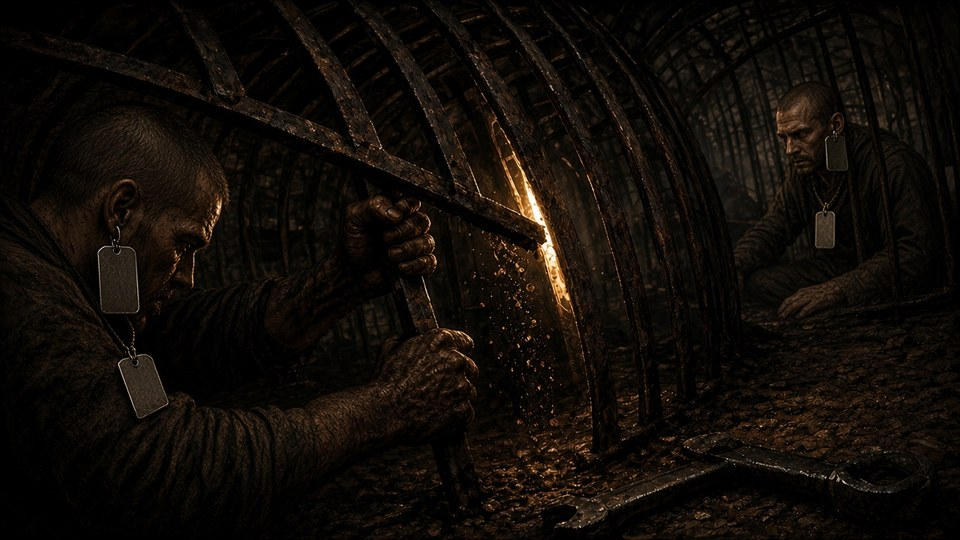
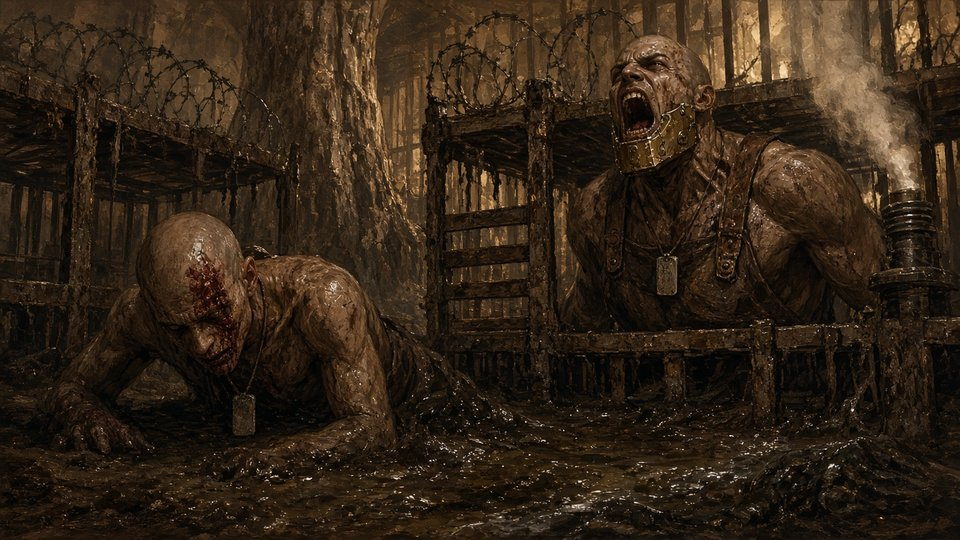
v177: Prisoner opening names Oil-Tooth again; new holding-cells art (one tag each, brass jaw) (#188)

diff --git a/src/game/content/openings.ts b/src/game/content/openings.ts
@@ -10,13 +10,13 @@ export const openingScenes: Scene[] = [
     title: 'Ironwood Break',
     body: `You wake face-down in the holding pens muck. The back of your head is wet and you do not know the name of the wet. Cold, resin-slick, already in your mouth. Ironwood Camp-04 is loud: razor-wire, screaming steam-vents, harvesters on the petrified groves. You are a Blood-Cut. Captive labor. Amnesiac. Your kit matches no faction.
 
-Jaxson Vance is hollering from the next bunk — burly, grease-stained, a fused brass jaw. He sees the blood before he sees you. "Back of the head. Don't lie down again."
+Jaxson "Oil-Tooth" Vance is hollering from the next bunk — burly, grease-stained, a fused brass jaw. He sees the blood before he sees you. "Back of the head. Don't lie down again."
 
 Overseer Valerius is the shadow in the tower. Getting out from under him is the first job.`,
     choices: [
       {
         id: 'pens',
-        label: 'Sit up. Acknowledge Jaxson.',
+        label: 'Sit up. Acknowledge Oil-Tooth.',
         sub: 'Gear: Cartel Scrip only. The jaw in the next bunk will not shut up.',
         effects: {
           enterHub: 'camp04',

diff --git a/scripts/v167.ts b/scripts/v167.ts
@@ -4,8 +4,8 @@ import { getScene } from '../src/game/content/index.ts'
 import { MILLER_TURRETS } from '../src/game/content/intoTheMaw.ts'
 let fails = 0
 const ok = (c: unknown, m: string) => { if (!c) { fails++; console.log('FAIL', m) } }
-ok(readFileSync('public/sw.js', 'utf8').includes("CACHE = 'amber-shroud-v176'"), 'SW cache v167')
-ok(readFileSync('src/version.ts', 'utf8').includes("'v176'"), 'Build label v168')
+ok(readFileSync('public/sw.js', 'utf8').includes("CACHE = 'amber-shroud-v177'"), 'SW cache v167')
+ok(readFileSync('src/version.ts', 'utf8').includes("'v177'"), 'Build label v168')
 const body = String(getScene('ch2:p-jaws').body)
 ok(body.includes('The heavy horn atop the barge pops with static, followed by a long, low whistle that echoes off the canyon walls.'), 'horn narration')
 ok(body.includes(`"Greg! Tell that runner down in the dirt to stop staring up at my brass. The price is fifteen scraps or two vials of refined sap—no credit, no speeches. If they haven't dropped the weight into the bucket by the count of three... paint the sand with 'em and haul their skiff to the scrap heap."`), 'horn line word for word')

diff --git a/scripts/v175.ts b/scripts/v175.ts
@@ -6,8 +6,8 @@ import { isHungerCommand } from '../src/game/hunger'
 import type { GameState } from '../src/game/types'
 let fails = 0
 const ok = (c: unknown, m: string) => { if (!c) { fails++; console.log('FAIL', m) } }
-ok(readFileSync('public/sw.js', 'utf8').includes("CACHE = 'amber-shroud-v176'"), 'SW cache v175')
-ok(readFileSync('src/version.ts', 'utf8').includes("'v176'"), 'Build label v175')
+ok(readFileSync('public/sw.js', 'utf8').includes("CACHE = 'amber-shroud-v177'"), 'SW cache v175')
+ok(readFileSync('src/version.ts', 'utf8').includes("'v177'"), 'Build label v175')
 ok(!isHungerCommand("take the pilgrim's scar", 'vessel', true) && isHungerCommand('take the gullet', 'vessel', true) && isHungerCommand("take the pilgrim's scar", 'vessel'), 'Scar is not the Chapter Two road')
 ok(readFileSync('src/game/content/redMaw.ts', 'utf8').includes("all: [{ flagUnset: 'ribOpen' }"), 'rib +3 once')
 const base = { hubId: 'threshold', sceneId: 'thresh:paddock', flags: {}, items: {}, sap: 3 } as unknown as GameState

diff --git a/scripts/v174.ts b/scripts/v174.ts
@@ -3,8 +3,8 @@ import { readFileSync } from 'node:fs'
 let fails = 0
 const ok = (c: unknown, m: string) => { if (!c) { fails++; console.log('FAIL', m) } }
 const t = readFileSync('src/game/trade.ts', 'utf8')
-ok(readFileSync('public/sw.js', 'utf8').includes("CACHE = 'amber-shroud-v176'"), 'SW cache v174')
-ok(readFileSync('src/version.ts', 'utf8').includes("'v176'"), 'Build label v174')
+ok(readFileSync('public/sw.js', 'utf8').includes("CACHE = 'amber-shroud-v177'"), 'SW cache v174')
+ok(readFileSync('src/version.ts', 'utf8').includes("'v177'"), 'Build label v174')
 ok(t.includes("sub: 'Restores 3 Sap. Limit 2 per visit.'") && t.includes("perStop: { flag: 'kaelenDropsHere', n: 2 }"), 'Kaelen Drop line matches 2-per-visit')
 ok(readFileSync('src/game/engine.ts', 'utf8').match(/sap: 3,\n\s+remove: \{ vial_drop: 1 \}/), 'Drop restores 3 Sap')
 ok(readFileSync('src/game/engine.ts', 'utf8').match(/remove: \{ salve: 1 \},\n\s+health: 3/), 'Salve restores 3 Health')

diff --git a/scripts/v176.ts b/scripts/v176.ts
@@ -3,8 +3,8 @@ import { readFileSync } from 'node:fs'
 let fails = 0
 const ok = (c: unknown, m: string) => { if (!c) { fails++; console.log('FAIL', m) } }
 const e = readFileSync('src/game/engine.ts', 'utf8')
-ok(readFileSync('public/sw.js', 'utf8').includes("CACHE = 'amber-shroud-v176'"), 'SW cache v176')
-ok(readFileSync('src/version.ts', 'utf8').includes("'v176'"), 'Build label v176')
+ok(readFileSync('public/sw.js', 'utf8').includes("CACHE = 'amber-shroud-v177'"), 'SW cache v176')
+ok(readFileSync('src/version.ts', 'utf8').includes("'v177'"), 'Build label v176')
 ok(e.includes('if (handsLeft(next) > 0) next.hands = handsLeft(next) - 1') && e.includes("handsLeft(next) <= 0) {"), 'run ends only on a fall at 0 hands')
 ok(readFileSync('src/components/PlayScreen.tsx', 'utf8').includes('the next fall ends the run'), '0 hands reads as last chance')
 if (fails) { console.log(`v176: ${fails} fail`); process.exit(1) } else console.log('v176 ok')

diff --git a/scripts/v168.ts b/scripts/v168.ts
@@ -5,8 +5,8 @@ import { itemDesc, PLATE_RECIPE_NAMES, PLATE_RECIPE } from '../src/game/kit.ts'
 import { CH2_STARTS } from '../src/game/content/intoTheMaw.ts'
 let fails = 0
 const ok = (c: unknown, m: string) => { if (!c) { fails++; console.log('FAIL', m) } }
-ok(readFileSync('public/sw.js', 'utf8').includes("CACHE = 'amber-shroud-v176'"), 'SW cache v168')
-ok(readFileSync('src/version.ts', 'utf8').includes("'v176'"), 'Build label v168')
+ok(readFileSync('public/sw.js', 'utf8').includes("CACHE = 'amber-shroud-v177'"), 'SW cache v168')
+ok(readFileSync('src/version.ts', 'utf8').includes("'v177'"), 'Build label v168')
 for (const id of Object.values(CH2_STARTS)) ok(getScene(id), `start ${id}`)
 for (const id of ['ch2:cache', 'ch2:trapped', 'ch2:heart', 'ch2:end']) ok(getScene(id), `shared ${id}`)
 ok(!ALL_SCENES.some((s) => s.id === 'ch2:legacy'), 'legacy scene gone')

diff --git a/scripts/v177.ts b/scripts/v177.ts
@@ -1,0 +1,11 @@
+/** v177: Prisoner opening names Oil-Tooth again; new holding-cells art. npx tsx scripts/v177.ts */
+import { readFileSync, statSync } from 'node:fs'
+let fails = 0
+const ok = (c: unknown, m: string) => { if (!c) { fails++; console.log('FAIL', m) } }
+const o = readFileSync('src/game/content/openings.ts', 'utf8')
+ok(readFileSync('public/sw.js', 'utf8').includes("CACHE = 'amber-shroud-v177'"), 'SW cache v177')
+ok(readFileSync('src/version.ts', 'utf8').includes("'v177'"), 'Build label v177')
+ok(o.includes('Jaxson "Oil-Tooth" Vance is hollering from the next bunk'), 'opening names Oil-Tooth')
+ok(o.includes("label: 'Sit up. Acknowledge Oil-Tooth.'"), 'button names Oil-Tooth')
+ok(statSync('public/covers/holding-cells.jpg').size > 20000, 'art present')
+if (fails) { console.log(`v177: ${fails} fail`); process.exit(1) } else console.log('v177 ok')

diff --git a/scripts/v169.ts b/scripts/v169.ts
@@ -4,8 +4,8 @@ import { getScene } from '../src/game/content/index.ts'
 let fails = 0
 const ok = (c: unknown, m: string) => { if (!c) { fails++; console.log('FAIL', m) } }
 const J = (x: unknown) => JSON.stringify(x)
-ok(readFileSync('public/sw.js', 'utf8').includes("CACHE = 'amber-shroud-v176'"), 'SW cache v169')
-ok(readFileSync('src/version.ts', 'utf8').includes("'v176'"), 'Build label v169')
+ok(readFileSync('public/sw.js', 'utf8').includes("CACHE = 'amber-shroud-v177'"), 'SW cache v169')
+ok(readFileSync('src/version.ts', 'utf8').includes("'v177'"), 'Build label v169')
 ok(existsSync('public/covers/stairs.jpg') && existsSync('public/covers/threshold.jpg'), 'stairs art, threshold kept')
 ok(readFileSync('src/game/art.ts', 'utf8').includes("'stairs'"), 'stairs cover key')
 ok(J(getScene('ch2:gate').choices).includes('ch2:approach'), 'gate -> approach')

diff --git a/scripts/v172.ts b/scripts/v172.ts
@@ -5,8 +5,8 @@ import { fightStartFlags, pickEncounterKind, resolveEncounter, encounterSpec, LE
 import { isChapterTwoCode } from '../src/game/ch2.ts'
 let fails = 0
 const ok = (c: unknown, m: string) => { if (!c) { fails++; console.log('FAIL', m) } }
-ok(readFileSync('public/sw.js', 'utf8').includes("CACHE = 'amber-shroud-v176'"), 'SW cache v172')
-ok(readFileSync('src/version.ts', 'utf8').includes("'v176'"), 'Build label v172')
+ok(readFileSync('public/sw.js', 'utf8').includes("CACHE = 'amber-shroud-v177'"), 'SW cache v172')
+ok(readFileSync('src/version.ts', 'utf8').includes("'v177'"), 'Build label v172')
 const sw = readFileSync('public/sw.js', 'utf8')
 ok(sw.includes('covers/vat-leech.jpg') && sw.includes('covers/hymn-moth.jpg'), 'covers precached')
 const kinds = (sceneId: string, hubId: string | null, door: 'prisoner' | 'vessel' = 'prisoner') => {

diff --git a/scripts/smoke.ts b/scripts/smoke.ts
@@ -2737,7 +2737,7 @@ assert(ids(s).includes('sybella-hold') && ids(s).includes('sybella-defy') && ids
 }
 
 const sw = readFileSync(new URL('../public/sw.js', import.meta.url), 'utf8')
-assert(sw.includes("CACHE = 'amber-shroud-v176'") && sw.includes('covers/carapace.jpg'), 'SW bumped so new portraits reach Pages')
+assert(sw.includes("CACHE = 'amber-shroud-v177'") && sw.includes('covers/carapace.jpg'), 'SW bumped so new portraits reach Pages')
 assert(sw.includes('covers/bonewright.jpg') && sw.includes('covers/kaelen.jpg'), 'SW precaches NPC covers')
 assert(!sw.includes('covers/camp04.jpg') && sw.includes('covers/yard.jpg') && sw.includes('covers/sybella.jpg'), 'SW precaches door and antagonist covers')
 assert(sw.includes('favicon.png') && !sw.includes('favicon.svg'), 'SW precaches the cover favicon, not the Drop SVG')

diff --git a/scripts/v170.ts b/scripts/v170.ts
@@ -5,8 +5,8 @@ import { playCoverKey, playCoverFile, coverBand } from '../src/game/art.ts'
 import { newGame } from '../src/game/engine.ts'
 let fails = 0
 const ok = (c: unknown, m: string) => { if (!c) { fails++; console.log('FAIL', m) } }
-ok(readFileSync('public/sw.js', 'utf8').includes("CACHE = 'amber-shroud-v176'"), 'SW cache v170')
-ok(readFileSync('src/version.ts', 'utf8').includes("'v176'"), 'Build label v170')
+ok(readFileSync('public/sw.js', 'utf8').includes("CACHE = 'amber-shroud-v177'"), 'SW cache v170')
+ok(readFileSync('src/version.ts', 'utf8').includes("'v177'"), 'Build label v170')
 const seen = new Set<string>()
 for (const n of ['p-supply', 'p-drillrun', 'survivor', 'approach', 'ditch', 'gully', 'irongut', 'ribs', 'vein', 'cache', 'heart', 'trapped', 'end', 'gate']) {
   const sc = getScene(`ch2:${n}`)

diff --git a/scripts/v173.ts b/scripts/v173.ts
@@ -3,8 +3,8 @@ import { readFileSync } from 'node:fs'
 let fails = 0
 const ok = (c: unknown, m: string) => { if (!c) { fails++; console.log('FAIL', m) } }
 const sw = readFileSync('public/sw.js', 'utf8')
-ok(sw.includes("CACHE = 'amber-shroud-v176'"), 'SW cache v173')
-ok(readFileSync('src/version.ts', 'utf8').includes("'v176'"), 'Build label v173')
+ok(sw.includes("CACHE = 'amber-shroud-v177'"), 'SW cache v173')
+ok(readFileSync('src/version.ts', 'utf8').includes("'v177'"), 'Build label v173')
 ok(!sw.includes('cache.addAll(') && sw.includes('addEach(cache'), 'precache file by file')
 ok(sw.includes("caches.match(req, { ignoreSearch: true }).then(\n        (hit) =>\n          hit ||"), 'images cache-first')
 ok(sw.includes('withTimeout(fetch(req), 10000)'), 'image network timeout')
